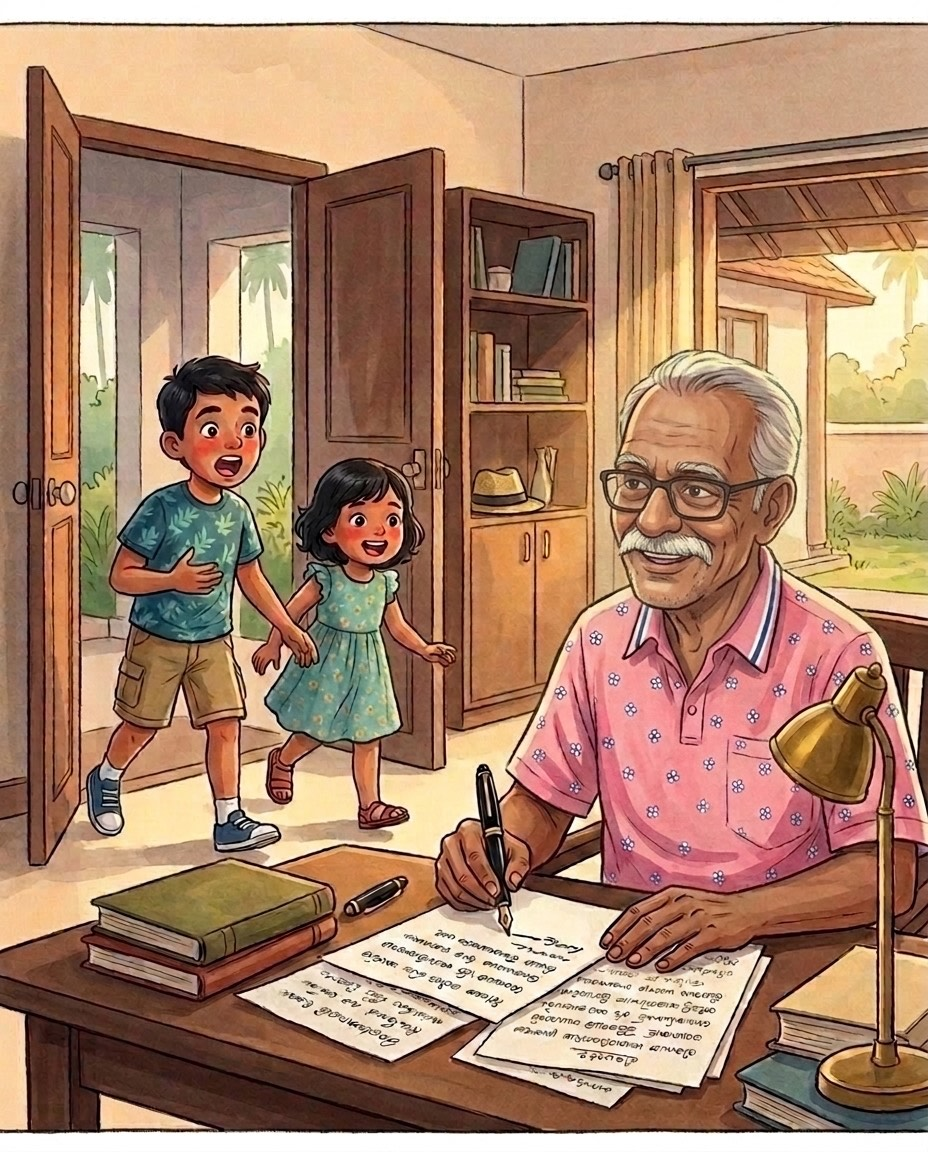
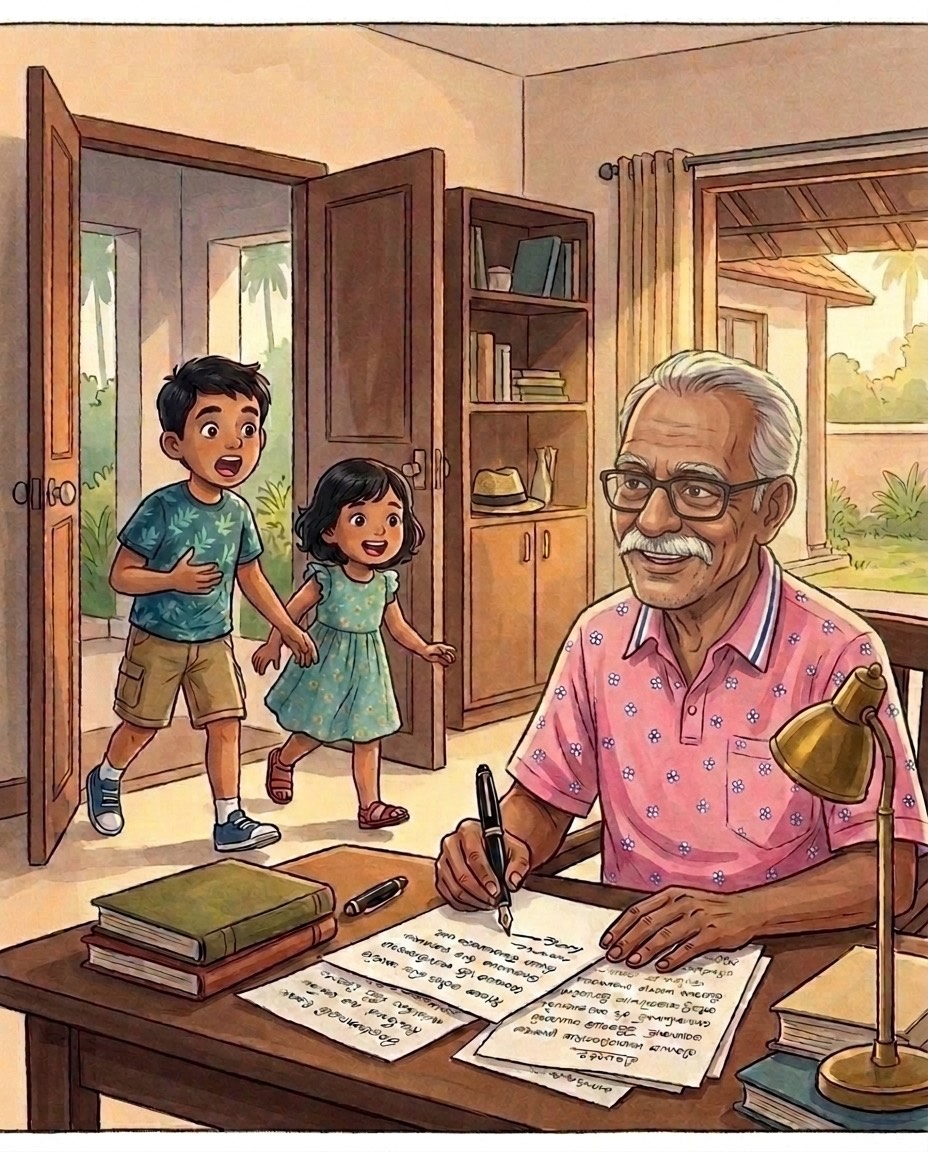
Comic ch.1 panel 12: natural cheek tone for Appu and Achu

diff --git a/comics/chiyyaram-childhood/index.html b/comics/chiyyaram-childhood/index.html
@@ -59,7 +59,7 @@
 <script src="story.js?v=3"></script>
 <script>
 var COMIC = {
-  v: '6',  // bump whenever a panel image changes, so browsers drop their cached copies
+  v: '7',  // bump whenever a panel image changes, so browsers drop their cached copies
   next: 'Next time: who was Appuman?',
   nextUrl: '../../stories/appuman-harvest.html',
   nextLink: 'Read Chapter 2 →'
